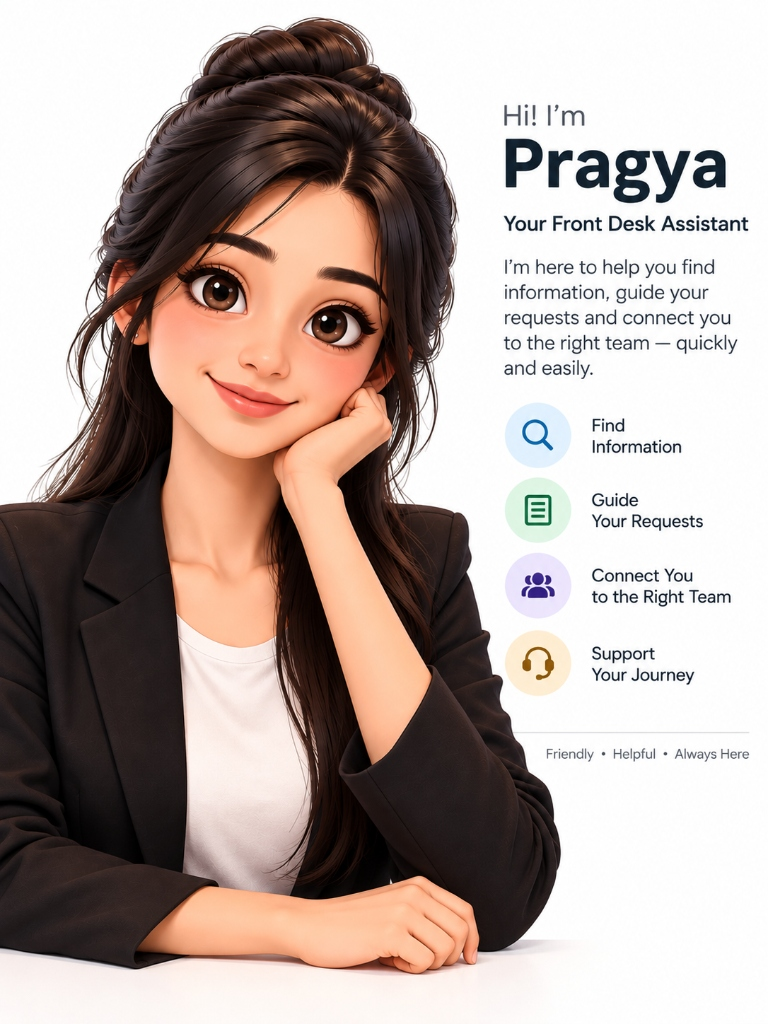
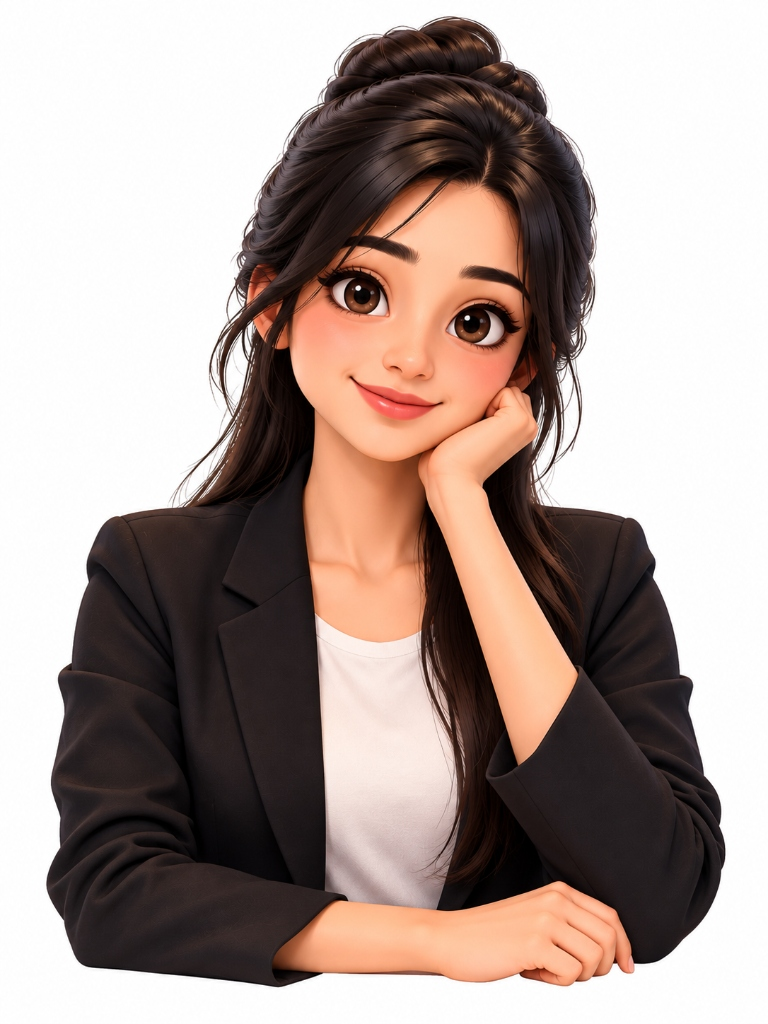
feat: upgrade Pragya to a true 3D transparent cutout

diff --git a/src/components/ChatWidget.tsx b/src/components/ChatWidget.tsx
@@ -181,13 +181,13 @@ export default function ChatWidget() {
         )}
       </AnimatePresence>
 
-      {/* Floating Button / Avatar */}
+      {/* Floating 3D Avatar Button */}
       <button
         onClick={toggleChat}
-        className={`shadow-2xl flex items-center justify-center hover:scale-105 transition-all duration-300 focus:outline-none focus:ring-4 focus:ring-emerald-500/30 z-50 overflow-hidden ${
+        className={`group flex items-center justify-center hover:scale-105 transition-all duration-300 focus:outline-none z-50 ${
           isOpen 
-            ? 'w-14 h-14 rounded-full bg-emerald-600' 
-            : 'w-28 h-36 sm:w-32 sm:h-40 rounded-2xl bg-white border-2 border-emerald-100 shadow-emerald-900/20'
+            ? 'w-14 h-14 rounded-full bg-emerald-600 shadow-xl' 
+            : 'w-40 h-52 sm:w-48 sm:h-60'
         }`}
       >
         {isOpen ? (
@@ -195,20 +195,21 @@ export default function ChatWidget() {
             <path strokeLinecap="round" strokeLinejoin="round" strokeWidth={2} d="M6 18L18 6M6 6l12 12" />
           </svg>
         ) : (
-          <div className="relative w-full h-full group">
+          <div className="relative w-full h-full flex items-end justify-center">
+            {/* The transparent avatar (no background, no border) */}
             <img 
-              src="/pragya-avatar.jpg" 
+              src="/pragya-avatar.png" 
               alt="Pragya Assistant" 
-              className="w-full h-full object-cover object-top" 
+              className="w-full h-full object-contain object-bottom drop-shadow-[0_15px_15px_rgba(0,0,0,0.3)] transition-transform duration-300 group-hover:-translate-y-2" 
             />
-            {/* Overlay Gradient */}
-            <div className="absolute inset-0 bg-gradient-to-t from-emerald-900/90 via-emerald-900/20 to-transparent opacity-90 group-hover:opacity-100 transition-opacity flex flex-col justify-end p-2 pb-3">
-               <span className="text-white text-xs sm:text-sm font-semibold tracking-wide drop-shadow-md text-center">Hi, I'm Pragya!</span>
-               <span className="text-emerald-100 text-[10px] sm:text-xs text-center drop-shadow-md">Chat with me</span>
-            </div>
             
-            {/* Online Indicator */}
-            <div className="absolute top-2 right-2 w-3.5 h-3.5 bg-green-500 border-2 border-white rounded-full animate-pulse shadow-md"></div>
+            {/* Floating Greeting Bubble next to avatar */}
+            <div className="absolute top-12 -left-4 bg-white px-3 py-2 rounded-2xl rounded-br-none shadow-lg border border-emerald-100 opacity-90 group-hover:opacity-100 transition-opacity">
+               <span className="text-emerald-700 text-xs sm:text-sm font-bold whitespace-nowrap">Hi, I'm Pragya! 👋</span>
+            </div>
+
+            {/* Online Indicator near the shoulder */}
+            <div className="absolute bottom-6 right-8 w-3 h-3 bg-green-500 border-2 border-white rounded-full animate-pulse shadow-md"></div>
           </div>
         )}
       </button>
